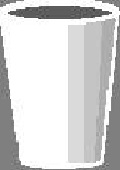
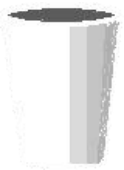
Added leaking streams, images

Changed region(s): [[0.0, 0.0, 1.0, 1.0], [0.825, 0.5588, 0.85, 0.6176], [0.825, 0.5, 0.85, 0.5294]]

diff --git a/TimeWaste/src/com/timewaste/games/drinkfarm/DrinkFarmLogic.java b/TimeWaste/src/com/timewaste/games/drinkfarm/DrinkFarmLogic.java
@@ -8,6 +8,7 @@ import java.util.LinkedList;
 
 import org.andengine.engine.handler.timer.ITimerCallback;
 import org.andengine.engine.handler.timer.TimerHandler;
+import org.andengine.entity.primitive.Rectangle;
 import org.andengine.entity.sprite.Sprite;
 import org.andengine.opengl.texture.region.ITextureRegion;
 import org.andengine.ui.activity.SimpleBaseGameActivity;
@@ -19,15 +20,20 @@ import android.content.DialogInterface;
 public class DrinkFarmLogic {	
 	private Sprite game_cup;
 	private Sprite game_bubble;
+	private Sprite liquid_stream;
+	private Scene scene;
 	
-	private int[] liquid_bubble_y = new int[10];
+	private int[] liquid_source = new int[10];
 	
 	private int cup_top_limit;
 	private int cup_bottom_limit;
-	
 	private int device_width;
     private int device_height;
-	
+    private float current_left_corner_cup;
+    private int current_liquid_source;
+    private int current_stream_duration = 0;
+    private int current_duration = 0;
+    
 	private DrinkFarm game_instance;
 	private Map<String, ITextureRegion> textures = new TreeMap<String, ITextureRegion>();
 	private LinkedList<Sprite> liquid_bubbles = new LinkedList<Sprite>();
@@ -43,25 +49,41 @@ public class DrinkFarmLogic {
 	private Sprite set_cup_logic(){ 
 		return new Sprite(0, 0, textures.get("cup"), game_instance.getVertexBufferObjectManager()) {
 			public boolean onAreaTouched(final TouchEvent pSceneTouchEvent, final float pTouchAreaLocalX, final float pTouchAreaLocalY) {
-				float new_position_x = pSceneTouchEvent.getX() - this.getWidth() / 2;
-				float new_position_y = pSceneTouchEvent.getY() - this.getHeight() / 2;
-				if(new_position_y > cup_top_limit && new_position_y < cup_bottom_limit) {
-					this.setPosition(new_position_x, new_position_y);
-				}
+				//float new_position_x = pSceneTouchEvent.getX() - this.getWidth() / 2;
+				//float new_position_y = pSceneTouchEvent.getY() - this.getHeight() / 2;
+				//if(new_position_y > cup_top_limit && new_position_y < cup_bottom_limit) {
+				
+				current_left_corner_cup = pSceneTouchEvent.getX() - this.getWidth() / 2;
+				
+				this.setPosition(current_left_corner_cup, cup_bottom_limit);
+				
 				return true;
 			}
 		};
 	}
 	
+	private void increase_or_reset_duration(){
+		if(current_duration < current_stream_duration){
+    		current_duration++;
+    	
+	    	if(current_duration == current_stream_duration){
+    			current_duration = 0;
+    			current_stream_duration = 0;
+    		}
+    	}
+	}
+	
 	private void falling_liquid_logic(Scene a_scene) {
 		TimerHandler mTimerHandler = new TimerHandler(0.01f, true, new ITimerCallback() {
 		    @Override
-		    public void onTimePassed(TimerHandler pTimerHandler) {
-		    	Iterator<Sprite> iter = liquid_bubbles.iterator();
-		    	while(iter.hasNext()) {
-		    		Sprite bubble = iter.next();
-		    		bubble.setPosition(bubble.getX(), bubble.getY() + 1);
+		    public void onTimePassed(TimerHandler pTimerHandler) {		    	
+		    	if(current_stream_duration == 0){
+		    		current_stream_duration = 50 * (3 + get_random_integer(7));
+		    		
+		    		current_liquid_source = get_random_integer(5);
+			    	liquid_stream.setX(liquid_source[current_liquid_source]);
 		    	}
+		    	increase_or_reset_duration();		    	
 		    }
 		});
 		a_scene.registerUpdateHandler(mTimerHandler);
@@ -69,7 +91,7 @@ public class DrinkFarmLogic {
 	
 	private void make_bubbles(Scene a_scene) {
 		for(int i=0; i<5; i++) {
-			game_bubble = new Sprite(liquid_bubble_y[i], device_height / 2, textures.get("bubble"), game_instance.getVertexBufferObjectManager());		
+			game_bubble = new Sprite(liquid_source[i], device_height / 2, textures.get("bubble"), game_instance.getVertexBufferObjectManager());		
 			a_scene.registerTouchArea(game_bubble);
 			a_scene.attachChild(game_bubble);
 			
@@ -85,22 +107,25 @@ public class DrinkFarmLogic {
 		game_cup.setPosition(250, cup_bottom_limit);
 		
 		set_liquid_bubble_Ys();
+		
+		liquid_stream = new Sprite(liquid_source[0], device_height * 11 / 20, this.textures.get("liquid_stream"), game_instance.getVertexBufferObjectManager());
+		scene.attachChild(liquid_stream);
+		
 		make_bubbles(a_scene);
 		
 		a_scene.registerTouchArea(game_cup);
 		falling_liquid_logic(a_scene);
 	}
 	
-	public DrinkFarmLogic(DrinkFarm game_instance, Scene a_scene, Map<String, ITextureRegion> textures)
-	{
+	public DrinkFarmLogic(DrinkFarm game_instance, Scene a_scene, Map<String, ITextureRegion> textures)	{
 		this.device_width  = game_instance.getResources().getDisplayMetrics().widthPixels;
 	    this.device_height = game_instance.getResources().getDisplayMetrics().heightPixels;
 	    
 		this.game_instance = game_instance;
 		this.textures = textures;
 		
+		this.scene = a_scene;
 		set_ground_images(a_scene);	
-		
 	}
 	
 	public void render(Scene a_scene) {
@@ -114,10 +139,10 @@ public class DrinkFarmLogic {
 	}
 	
 	private void set_liquid_bubble_Ys() {
-		liquid_bubble_y[0] = device_width * 1 / 6;
-		liquid_bubble_y[1] = device_width * 2 / 6;
-		liquid_bubble_y[2] = device_width * 23 / 48;
-		liquid_bubble_y[3] = device_width * 31 / 48;
-		liquid_bubble_y[4] = device_width * 19 / 24;
+		liquid_source[0] = device_width * 16 / 96;
+		liquid_source[1] = device_width * 31 / 96;
+		liquid_source[2] = device_width * 23 / 48;
+		liquid_source[3] = device_width * 61 / 96;
+		liquid_source[4] = device_width * 19 / 24;
 	}
 }

diff --git a/TimeWaste/src/com/timewaste/games/drinkfarm/DrinkFarm.java b/TimeWaste/src/com/timewaste/games/drinkfarm/DrinkFarm.java
@@ -73,13 +73,22 @@ public class DrinkFarm extends GameActivity {
 				}
 			});
 			
+			ITexture liquid_stream = new BitmapTexture(this.getTextureManager(), new IInputStreamOpener() {
+				@Override
+				public InputStream open() throws IOException {
+					return context.getAssets().open("gfx/drinkfarm/png/liquid_stream.png");
+				}
+			});
+			
 			machine.load();
 			cup.load();
 			bubble.load();
+			liquid_stream.load();
 			
 		    textures.put("machine", TextureRegionFactory.extractFromTexture(machine));
 		    textures.put("cup", TextureRegionFactory.extractFromTexture(cup));
-		    textures.put("bubble", TextureRegionFactory.extractFromTexture(bubble));	
+		    textures.put("bubble", TextureRegionFactory.extractFromTexture(bubble));
+		    textures.put("liquid_stream", TextureRegionFactory.extractFromTexture(liquid_stream));
 		} catch (IOException e) {
 			Debug.e(e);
 		}
